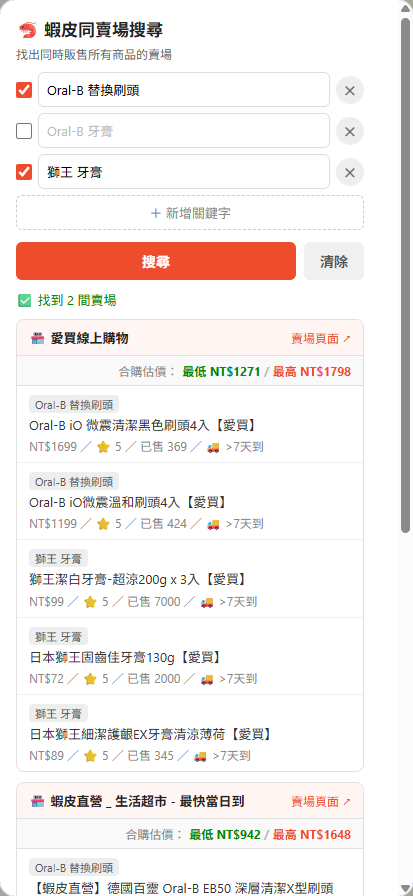
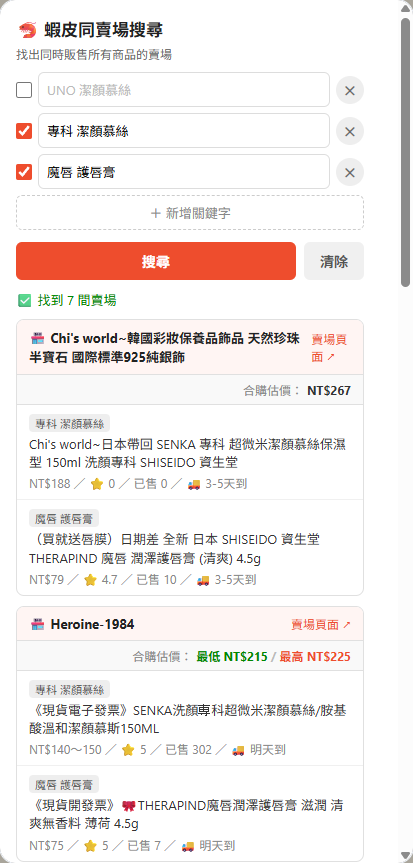
docs: 更新 Demo 截圖與 README 範例關鍵字
- 範例改為洗顏慕絲＋護唇膏，更能體現低單價合購省運費情境
- 更新 README 使用情境說明與 Demo 備註文字
- 更新三張 Demo 截圖

diff --git a/README.md b/README.md
@@ -11,7 +11,7 @@
 
 在蝦皮向多個賣場分開下單，每筆都要負擔運費。集中在同一賣場下單，才能達到免運門檻。
 
-例如：輸入「Oral-B 替換刷頭」和「Oral-B 牙膏」，找出同時有賣這兩樣的賣場，**合併購買達到免運門檻，省下多筆運費**。
+例如：輸入「UNO 潔顏慕絲」和「魔唇 護唇膏」，找出同時有賣這兩樣的賣場，**合併購買達到免運門檻，省下多筆運費**。
 
 ---
 
@@ -21,7 +21,7 @@
 |:---:|:---:|:---:|
 | ![輸入關鍵字](docs/screenshots/01_input.png) | ![搜尋結果](docs/screenshots/02_result1.png) | ![勾選調整後結果](docs/screenshots/03_result2.png) |
 
-> 第三張：取消勾選「Oral-B 牙膏」後重新搜尋，結果從 1 間擴展為 2 間賣場
+> 第三張：取消勾選「UNO 潔顏慕絲」後重新搜尋，結果從 2 間擴展為 7 間賣場
 
 ---
 
